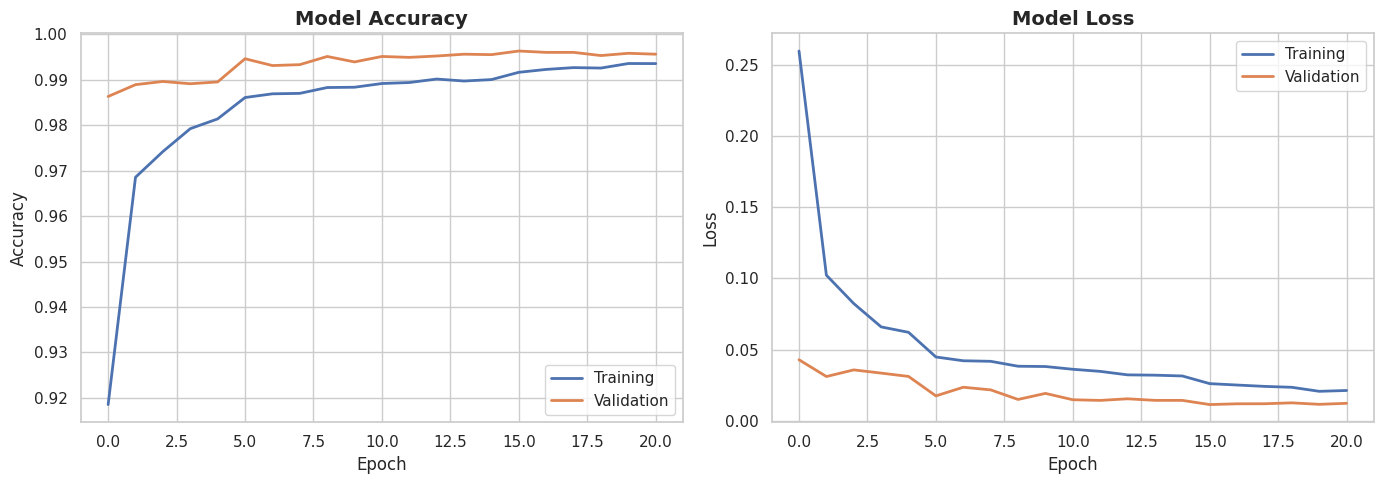
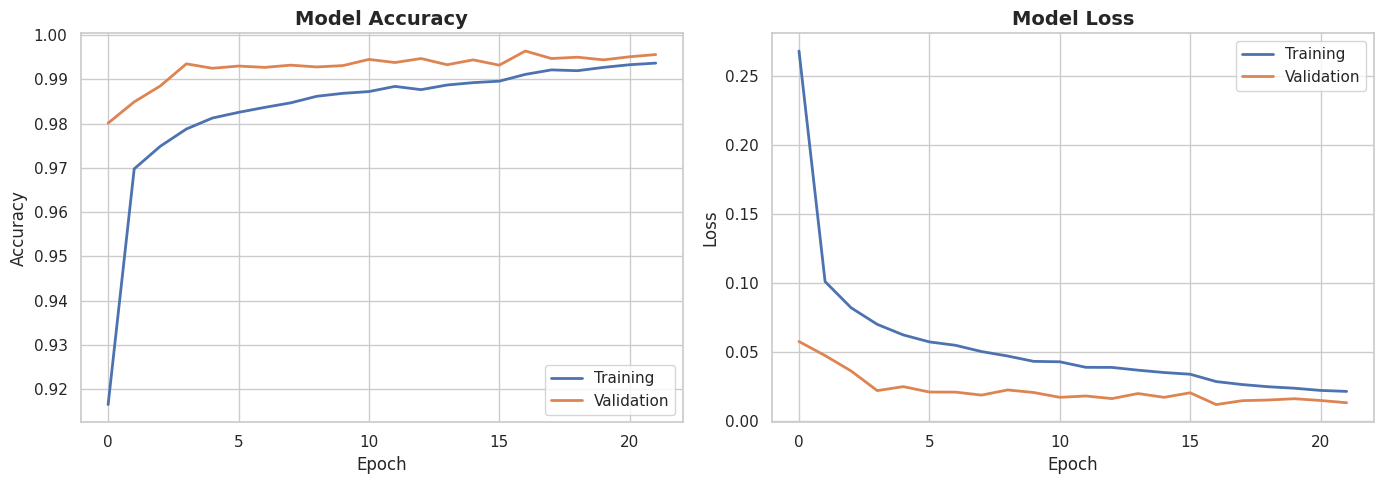
Refactor model structure and update script references

diff --git a/script.js b/script.js
@@ -1,7 +1,7 @@
 const $ = (id) => document.getElementById(id);
 const url = (path) => new URL(path, window.location.href).href;
 
-const MODEL_URL = url("./models/model_v3/model.json");
+const MODEL_URL = url("./models/model.json");
 const AUDIO_URLS = {
   correct: url("./assets/audios/correct.mp3"),
   incorrect: url("./assets/audios/incorrect.mp3"),

diff --git a/README.md b/README.md
@@ -3,7 +3,7 @@
 
 An interactive web application that recognizes handwritten digits using a TensorFlow.js model and collects a live community dataset synced automatically to Hugging Face.
 
-## Model performance (v3)
+## Model performance
 
 <p align="center">
     <img src="./assets/images/loss_accuracy_figure.png" alt="Loss and Accuracy figure" width="1000">
@@ -36,6 +36,10 @@ An automated pipeline runs every day via GitHub Actions to fetch new submissions
 - `Train`: draw the digit that is shown.
 - `Think`: draw the result of the indicated operation.
 
+## Try it on the web
+
+To try it without installing anything, visit this [link](https://zentardev.github.io/DigitRecognition).
+
 ## Run locally
 
 You cannot open `index.html` with `file://`. Use a local server:
@@ -49,11 +53,3 @@ Then open:
 ```text
 http://localhost:8000
 ```
-
-## Try it on the web
-
-To try it without installing anything, visit this [link](https://zentardev.github.io/DigitRecognition).
-
-## GitHub Pages
-
-The project includes a workflow in `.github/workflows/deploy-pages.yml` to deploy automatically with GitHub Actions.